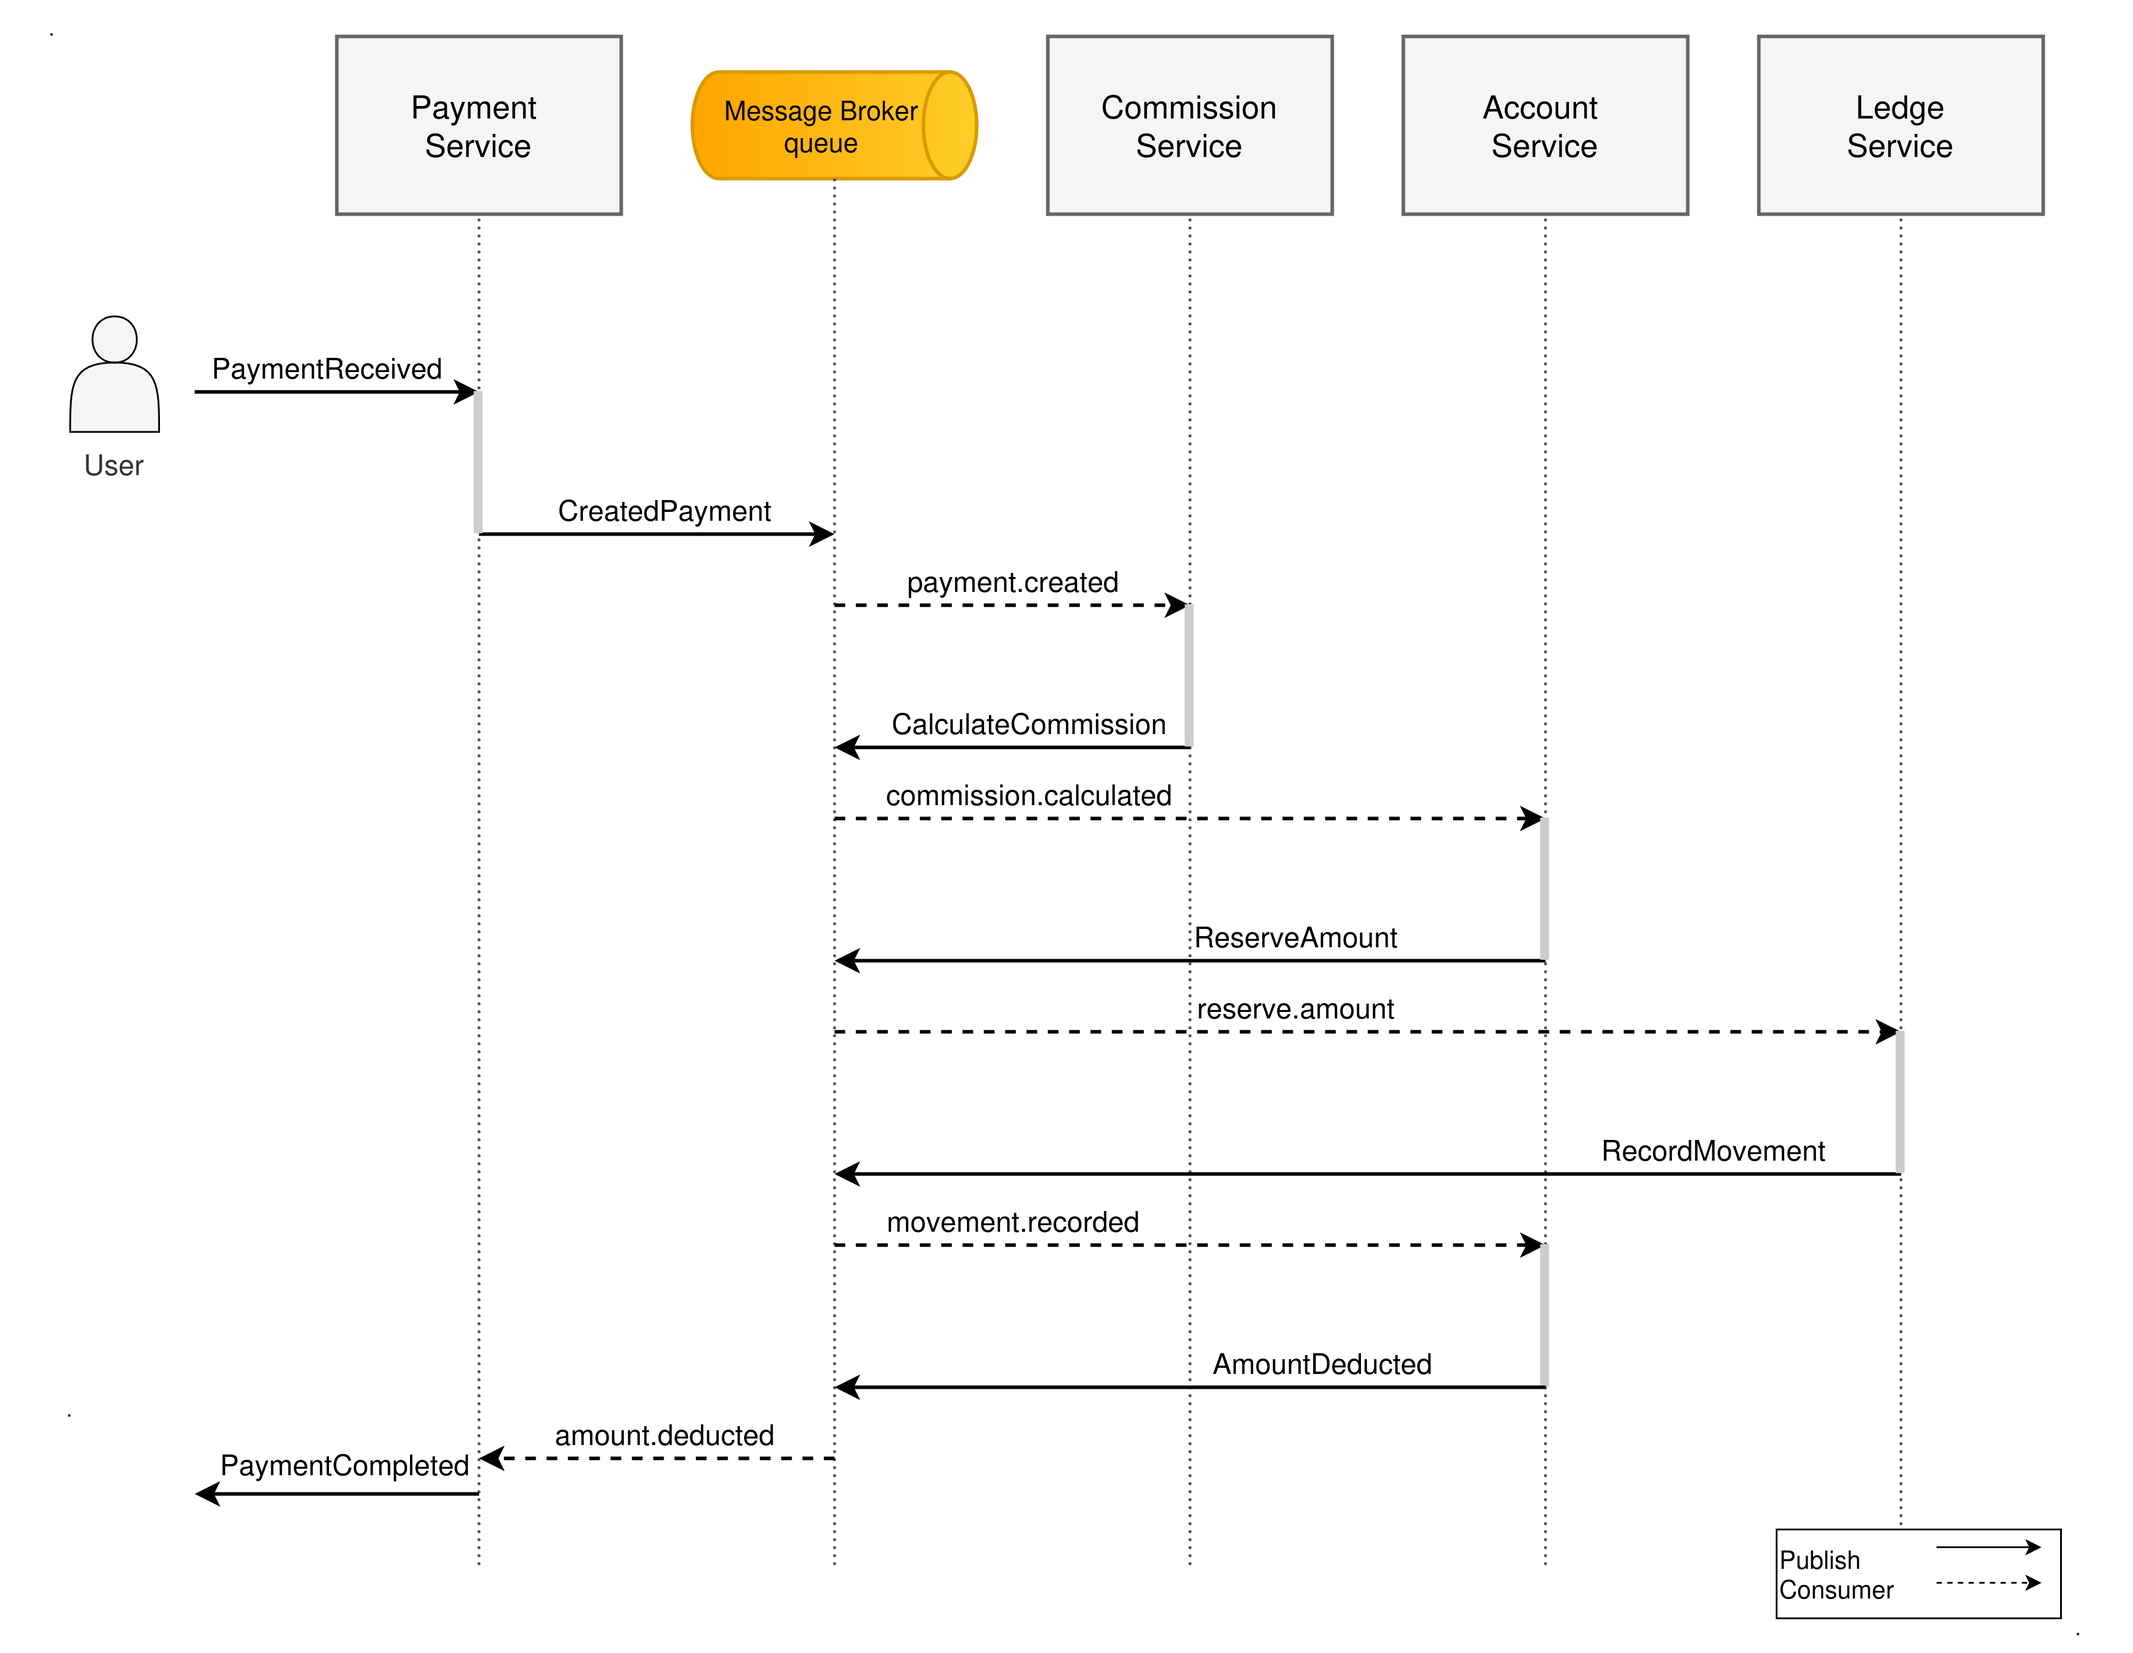
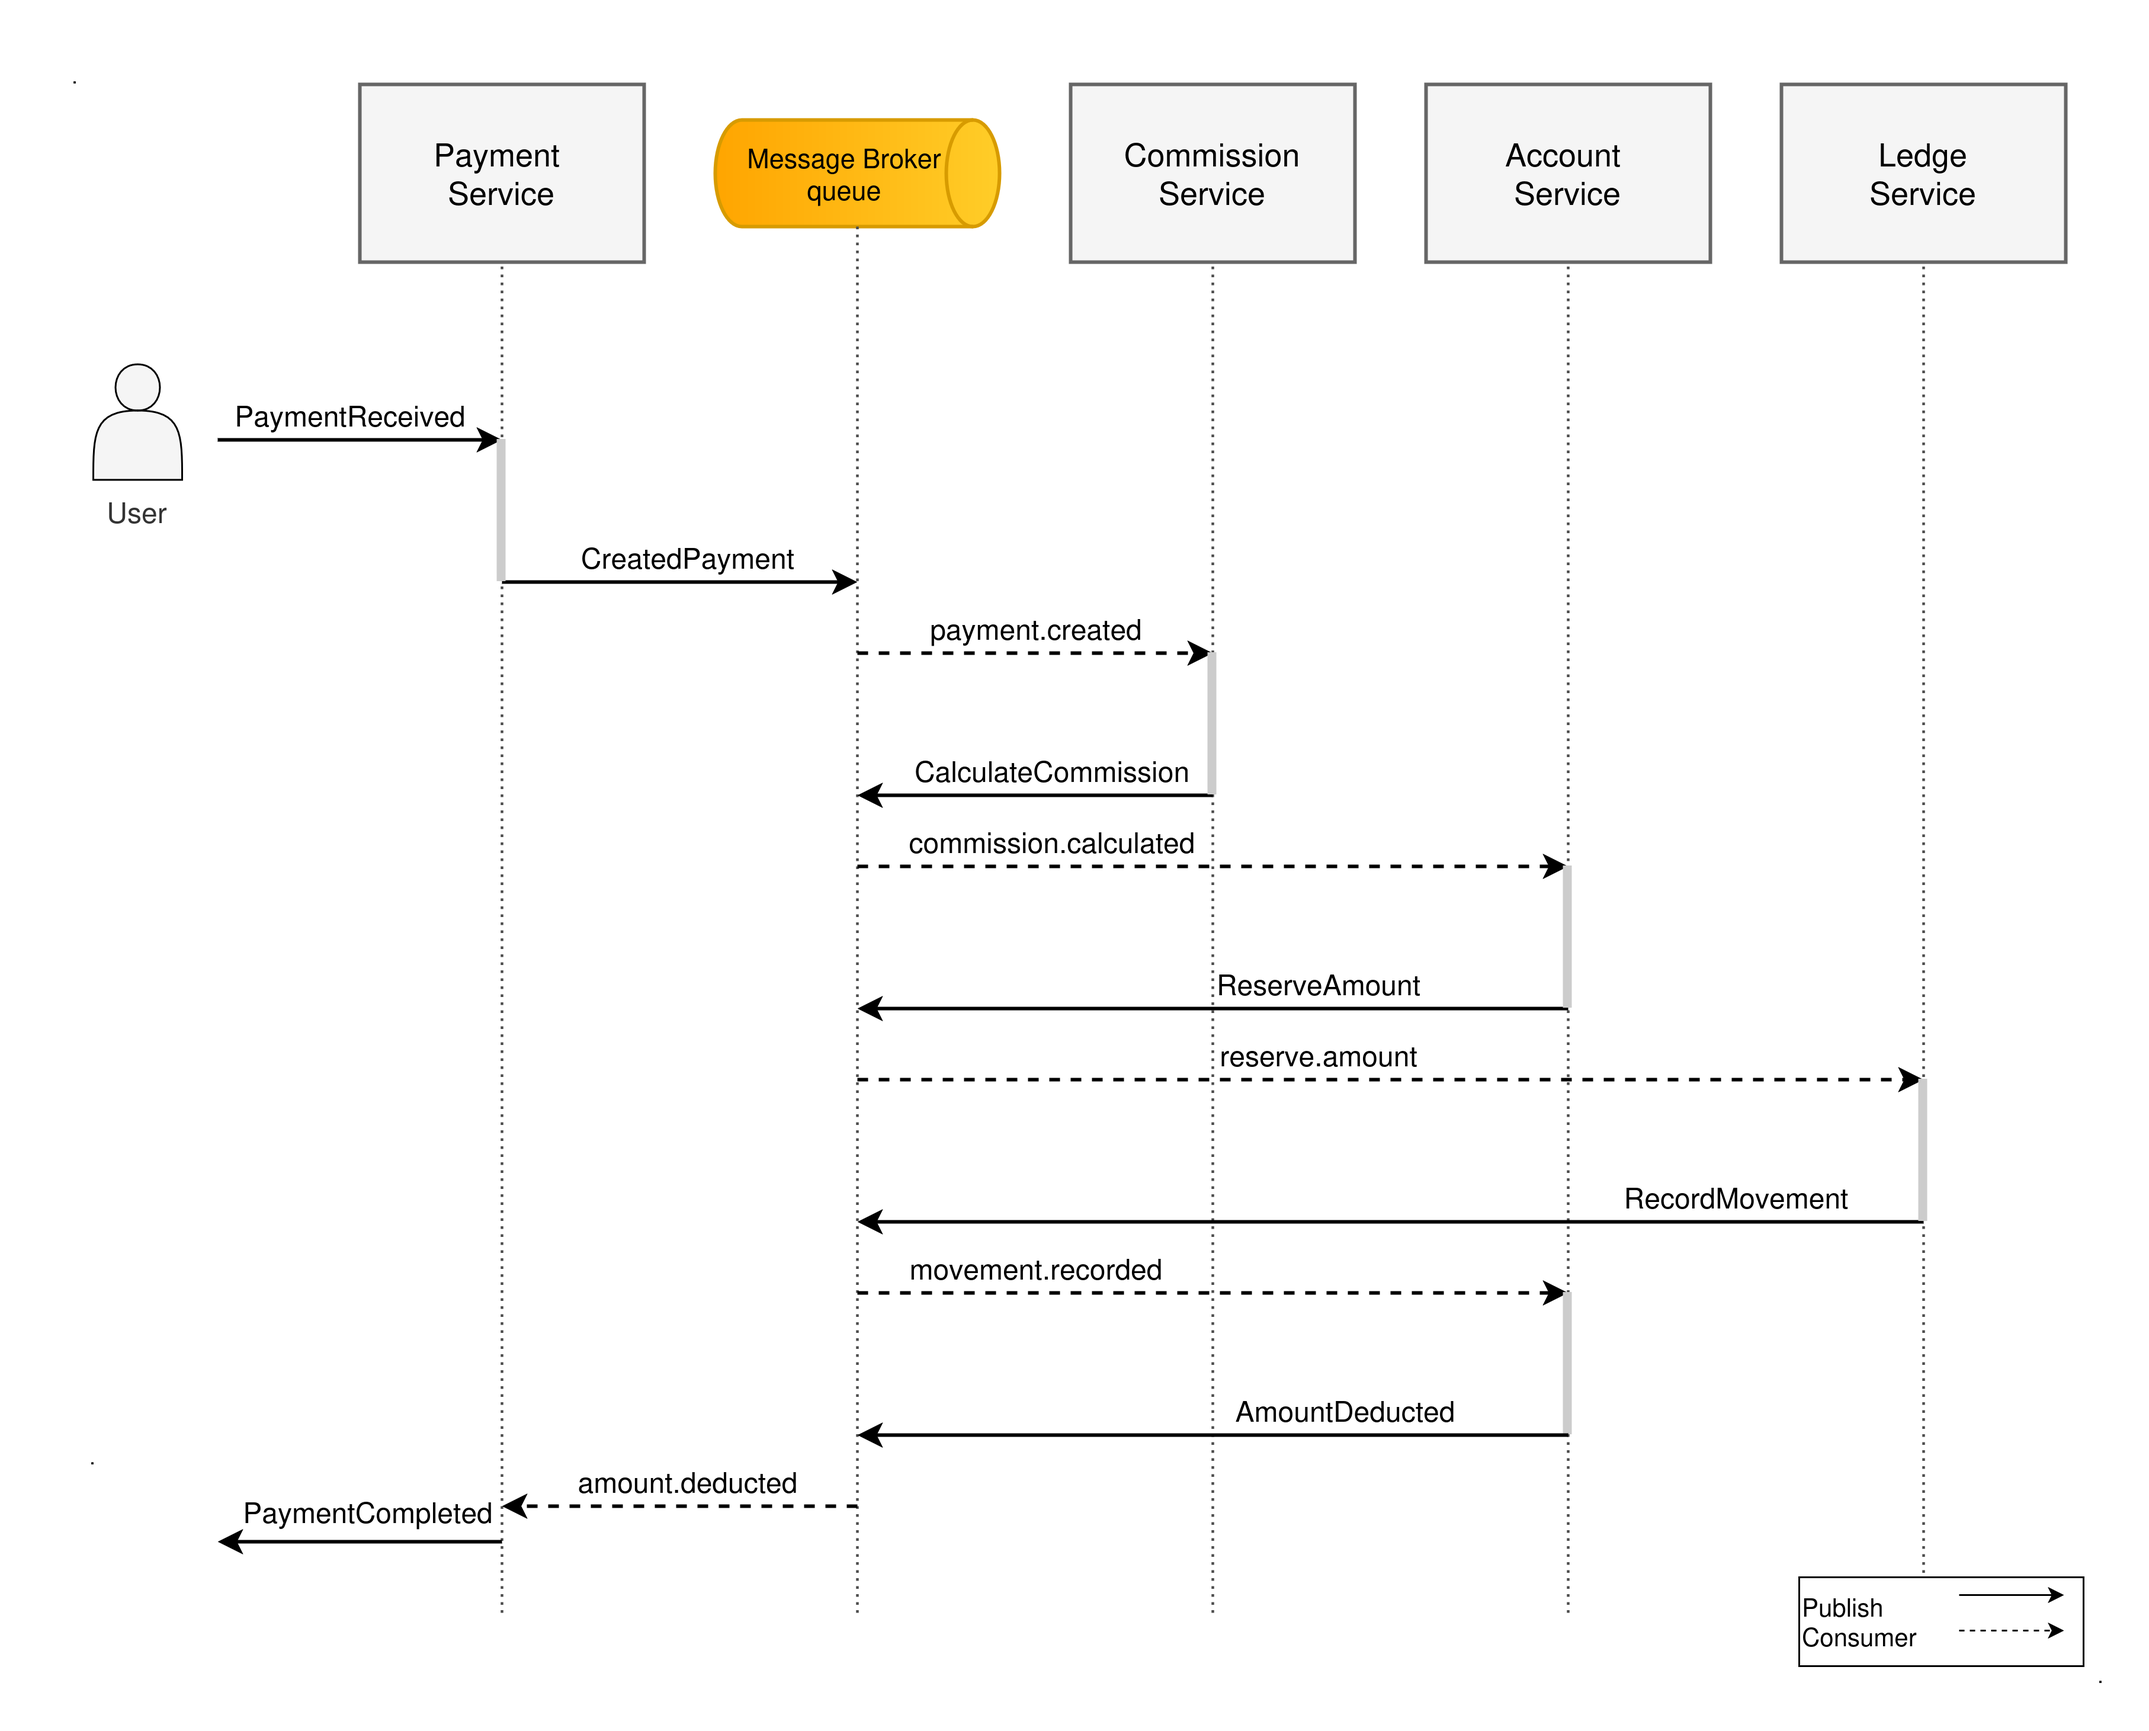
Add data of test in aws

diff --git a/README.md b/README.md
@@ -332,13 +332,9 @@ The infrastructure runs in the AWS `eu-west-2` region and is created with Terraf
 
 ## Deployment of application
 
-### Docker
+Each microservice is packaged as a Docker image and published to Docker Hub. A local script (`deploy-aws.sh`) provisions the AWS infrastructure with Terraform, updates the K3s host secret in GitHub, and triggers the deployment workflow automatically.
 
-For deployment, each microservice is packaged as a Docker image. GitHub Actions automates the build and publication of the images and applies the Kubernetes manifests to the K3s cluster.
-
-### CI/CD with GitHub Actions
-
-GitHub Actions builds and publishes the Docker images and deploys the Kubernetes resources required by the application.
+GitHub Actions builds and pushes the Docker images, then applies the Kubernetes manifests to the K3s cluster via SSH.
 
 ![Diagram of Deployment](docs/diagram-of-deployment.png)
 
@@ -392,11 +388,11 @@ terraform destroy
 
 ### AWS Evidence
 
-**1. The first is checking the deployment**
+**1. Verifying the successful deployment of all microservices on the AWS K3s cluster.**
 
 ![Services deployed](docs/services-deployed.png)
 
-**2. Scale to 3 replicas per microservice. Execute this command in control plane**
+**2. Scaling each microservice to 3 replicas to validate concurrent request handling across distributed instances.**
 
 ```bash
 sudo k3s kubectl scale deployment payment-service --replicas=3 &&
@@ -405,12 +401,12 @@ sudo k3s kubectl scale deployment account-service --replicas=3 &&
 sudo k3s kubectl scale deployment ledger-service --replicas=3
 ```
 
-**3. The capture**
+**3. Cluster state after scaling, showing all pods running across the K3s nodes**
 
 ![Services Replicated](docs/services-replicated.png)
 
 
-**4. Capture**
+**4. Database state captured after the concurrent load test, showing the results across all four services.**
 
 ![Cloud test results](docs/cloud-test-results.txt)
 
@@ -423,58 +419,42 @@ sudo k3s kubectl scale deployment ledger-service --replicas=3
 
 ## References
 
-[1] C. Richardson, *Microservices Patterns: With Examples in Java*.
-Shelter Island, NY, USA: Manning Publications, 2019.
+[1] C. Richardson, *Microservices Patterns: With Examples in Java*. Shelter Island, NY, USA: Manning Publications, 2019.
 
-[2] E. Daraghmi, C.-P. Zhang, and S.-M. Yuan, “Enhancing Saga Pattern
-for Distributed Transactions within a Microservices Architecture,”
-*Applied Sciences*, vol. 12, no. 12, Art. no. 6242, Jun. 2022,
-doi: 10.3390/app12126242.
+[2] E. Daraghmi, C.-P. Zhang, and S.-M. Yuan, “Enhancing Saga Pattern for Distributed Transactions within a Microservices Architecture,” *Applied Sciences*, vol. 12, no. 12, Art. no. 6242, Jun. 2022, doi: 10.3390/app12126242.
 
-[3] GitHub, “Workflow syntax for GitHub Actions,” *GitHub Docs*.
-[Online]. Available:
+[3] GitHub, “Workflow syntax for GitHub Actions,” *GitHub Docs*. [Online]. Available:
 https://docs.github.com/actions/using-workflows/workflow-syntax-for-github-actions
 
-[4] GitHub, “Publishing Docker images,” *GitHub Docs*. [Online].
-Available:
+[4] GitHub, “Publishing Docker images,” *GitHub Docs*. [Online]. Available:
 https://docs.github.com/actions/guides/publishing-docker-images
 
-[5] Apache Maven Project, “Maven Surefire Plugin.” [Online].
-Available:
+[5] Apache Maven Project, “Maven Surefire Plugin.” [Online]. Available:
 https://maven.apache.org/surefire/maven-surefire-plugin/.
 
-[6] Kubernetes Authors, “Deployments,” *Kubernetes Documentation*.
-[Online]. Available:
+[6] Kubernetes Authors, “Deployments,” *Kubernetes Documentation*. [Online]. Available:
 https://kubernetes.io/docs/concepts/workloads/controllers/deployment/
 
-[7] Kubernetes Authors, “kubectl port-forward,”
-*Kubernetes Documentation*. [Online]. Available:
+[7] Kubernetes Authors, “kubectl port-forward,” *Kubernetes Documentation*. [Online]. Available:
 https://kubernetes.io/docs/reference/kubectl/generated/kubectl_port-forward/
 
-[8] Spring, “Actuator endpoints,” *Spring Boot Reference Documentation*.
-[Online]. Available:
+[8] Spring, “Actuator endpoints,” *Spring Boot Reference Documentation*. [Online]. Available:
 https://docs.spring.io/spring-boot/reference/actuator/endpoints.html
 
-[9] K3s Project, “Architecture,” *K3s Documentation*. [Online].
-Available:
+[9] K3s Project, “Architecture,” *K3s Documentation*. [Online]. Available:
 https://docs.k3s.io/architecture.
 
-[10] HashiCorp, “What is Terraform?,” *Terraform Documentation*.
-[Online]. Available:
+[10] HashiCorp, “What is Terraform?,” *Terraform Documentation*. [Online]. Available:
 https://developer.hashicorp.com/terraform/intro.
 
-[11] Amazon Web Services, “What is Amazon VPC?,”
-*Amazon VPC User Guide*. [Online]. Available:
+[11] Amazon Web Services, “What is Amazon VPC?,” *Amazon VPC User Guide*. [Online]. Available:
 https://docs.aws.amazon.com/vpc/latest/userguide/what-is-amazon-vpc.html
 
-[12] Amazon Web Services, “What is Amazon EC2?,”
-*Amazon EC2 User Guide*. [Online]. Available:
+[12] Amazon Web Services, “What is Amazon EC2?,” *Amazon EC2 User Guide*. [Online]. Available:
 https://docs.aws.amazon.com/AWSEC2/latest/UserGuide/concepts.html
 
-[13] Working with objects, “Objects In Kubernetes,”
-*Kubernetes Documentation*. [Online]. Available:
+[13] Working with objects, “Objects In Kubernetes,” *Kubernetes Documentation*. [Online]. Available:
 https://kubernetes.io/docs/concepts/overview/working-with-objects/
 
-[14] FreeCodeCamp "Bash Scripting Tutorial – Linux Shell Script and Command Line for Beginners,”
-*Bash*. [Online]. Available:
+[14] FreeCodeCamp "Bash Scripting Tutorial – Linux Shell Script and Command Line for Beginners,” *FreeCodeCamp*. [Online]. Available:
 https://www.freecodecamp.org/news/bash-scripting-tutorial-linux-shell-script-and-command-line-for-beginners/
